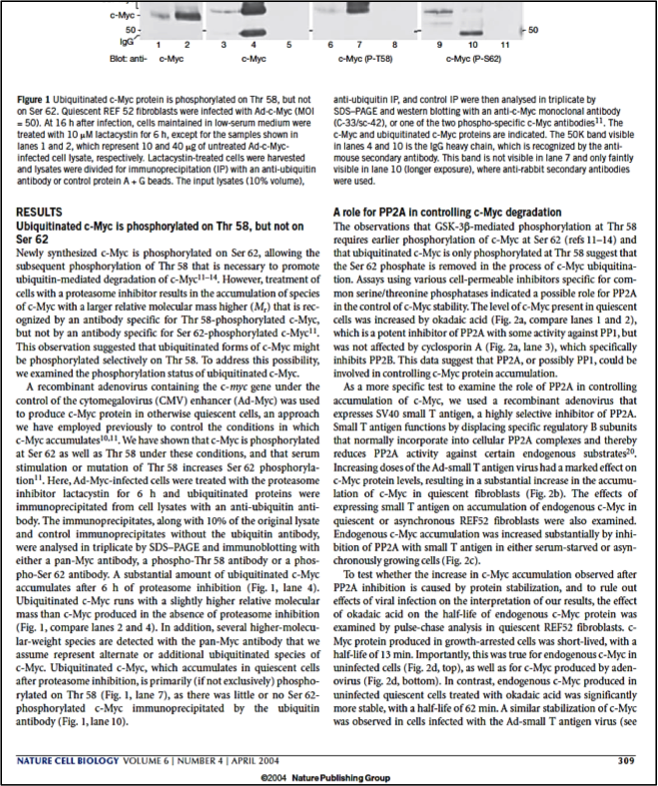
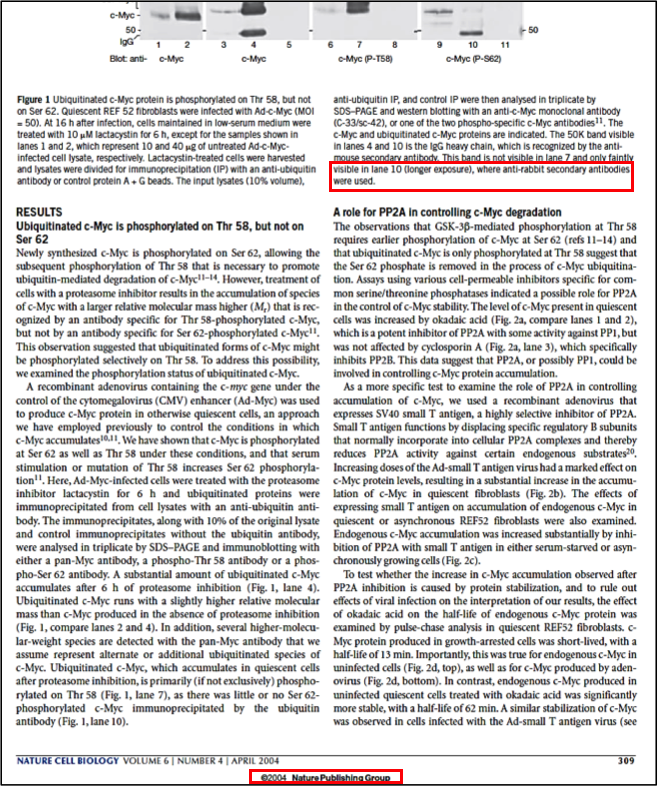
:lipstick: small corrections for more clarity and homogenity.

Changed region(s): [[0.4863, 0.1832, 0.9726, 0.2443], [0.3647, 0.9771, 0.6383, 1.0]]

diff --git a/doc/training/segmentation.md b/doc/training/segmentation.md
@@ -8,13 +8,13 @@ The following TEI elements are used by the segmentation model:
 
 * `titlePage` for the cover page
 * `front` for the document header
-* `note place='headnote'` for the page header
-* `note place='footnote'` for the page footer
+* `note place="headnote"` for the page header
+* `note place="footnote"` for the page footer
 * `body` for the document body
 * `listBibl` for the bibliographical section
 * `page` to indicate page numbers
-* `div type='annex'` for annexes
-* `div type='acknowledgment'` for acknowledgments
+* `div type="annex"` for annexes
+* `div type="acknowledgment"` for acknowledgments
 
 It is necessary to identify these substructures inside the `body`. Figures and tables (including their potential titles, legends and notes) are considered part of the container, here the `body` element.
 
@@ -72,7 +72,7 @@ Any information appearing in the page header needs to be surrounded by a `note p
 
 The contents of the grey band in the screenshot above should be surrounded by a `note place="headnote"` except on the first page where this type of information would be inside the `front` element.
 
-Any information appearing in the page footer needs to be put inside a `note place='footnote'`, as is shown in the following example:
+Any information appearing in the page footer needs to be put inside a `note place="footnote"`, as is shown in the following example:
 
 ![example of a footnote - 0C4AA21E271A7FF288AE13895EAED540ED582A83](img/note-place-footnote.png)
 
@@ -90,33 +90,31 @@ Any notes to the left of the main body text are to be encoded as `note`s if they
 
 ![example of different not types](img/different-note-examples.png)
 
-The following example shows a case where we have an acknowledgement (in the red frame) that gets encoded as a `div type="acknowledgment"` whereas the title reference underneath (in the orange frame) is encoded using a `front` element.
+The following example shows a case where we have an acknowledgment (in the red frame) that gets encoded as a `div type="acknowledgment"` whereas the title reference underneath (in the orange frame) is encoded using a `front` element.
 
-![acknowledgment and front](img/acknowledgement-placement.png)
+![acknowledgment and front](img/acknowledgment-placement.png)
 
-![acknowledgment and front](img/acknowledgement-placement-xml.png)
+![acknowledgment and front](img/acknowledgment-placement-xml.png)
 
 ### Tables and Figures
 
 Figures and tables belong to the main body structure: they are not to be encoded specifically.
 
-If a figure or table appears inside an annex of an article, it should remain inside the `div type='annex'` element.
+If a figure or table appears inside an annex of an article, it should remain inside the `div type="annex"` element.
 
 If a figure or table appears in an abstract (which is rare but it happens), this item should remain within the `front` element.
 
 
 ### Hidden characters
 
-It happens that Grobid picks up hidden text that is not visible on the PDF's page for the reader (see the orange text in the example below); this content should not be surrounded by any element.
-
-![an example of hidden characters](img/hidden-characters.png)
-
-And an extract of the corresponding TEI XML file:
+It happens that Grobid picks up hidden text that is not visible on the PDF's page for the reader (compare the XML below with the screenshot of the PDF page, the context being highlighted by red boxes); such content should not be surrounded by any element as to indicate to Grobid to ignore it.
 
 ```xml
 visible in lane 10 (longer exposure), where anti-rabbit secondary antibodies<lb/> were used. <lb/></body>
 
 print ncb1110 17/3/04 2:58 PM Page 309 <lb/>
 
-<note place "footnote">© 2004 Nature Publishing Group <lb/></note>
+<note place="footnote">© 2004 Nature Publishing Group <lb/></note>
 ```
+
+![an example of hidden characters](img/hidden-characters.png)
